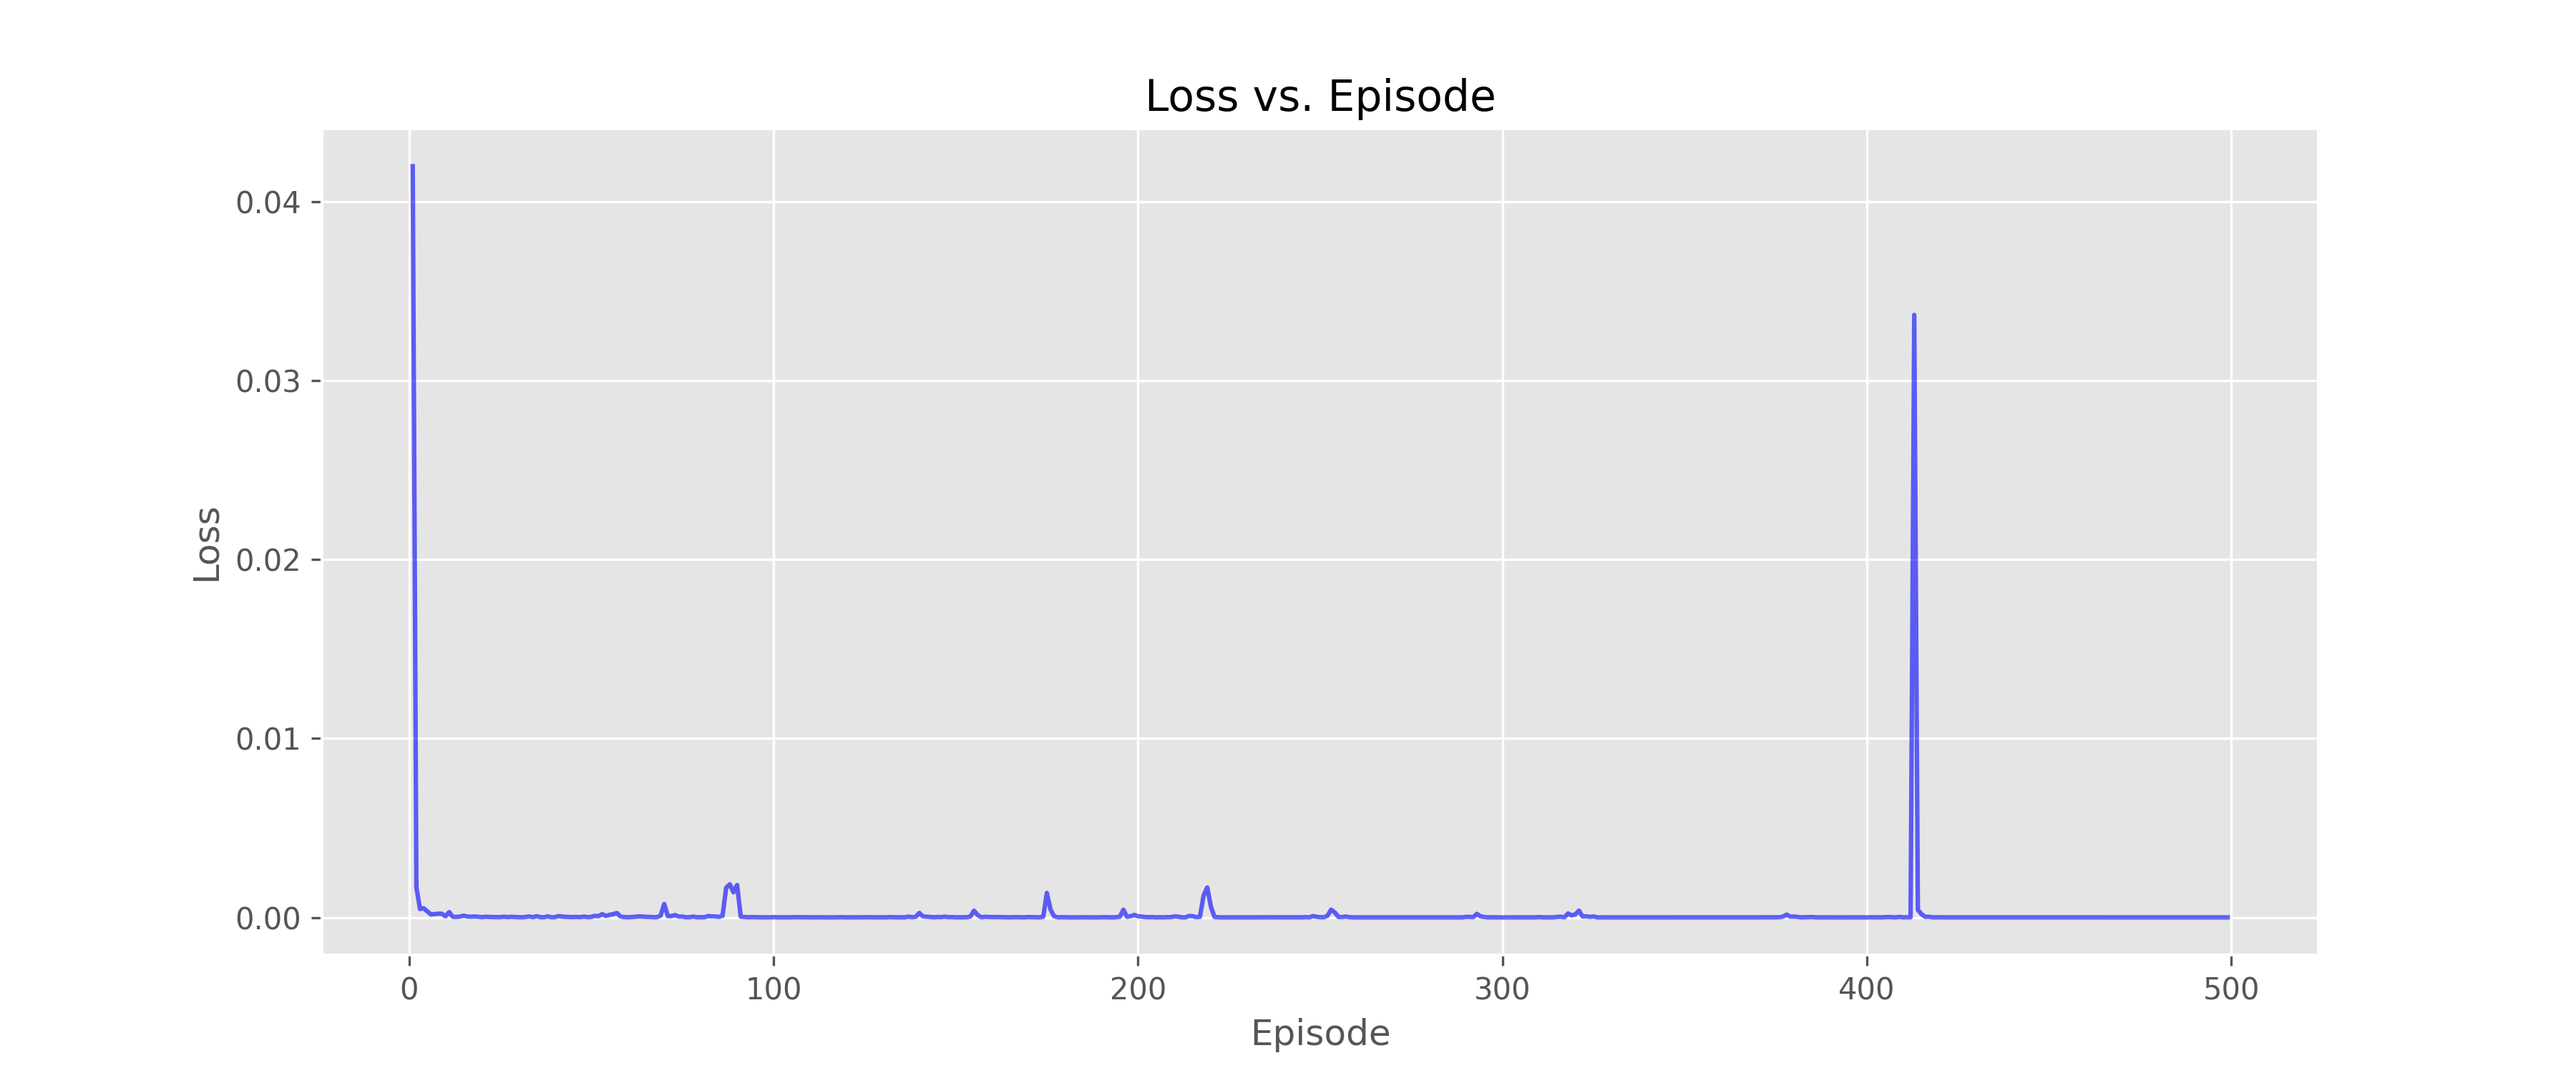
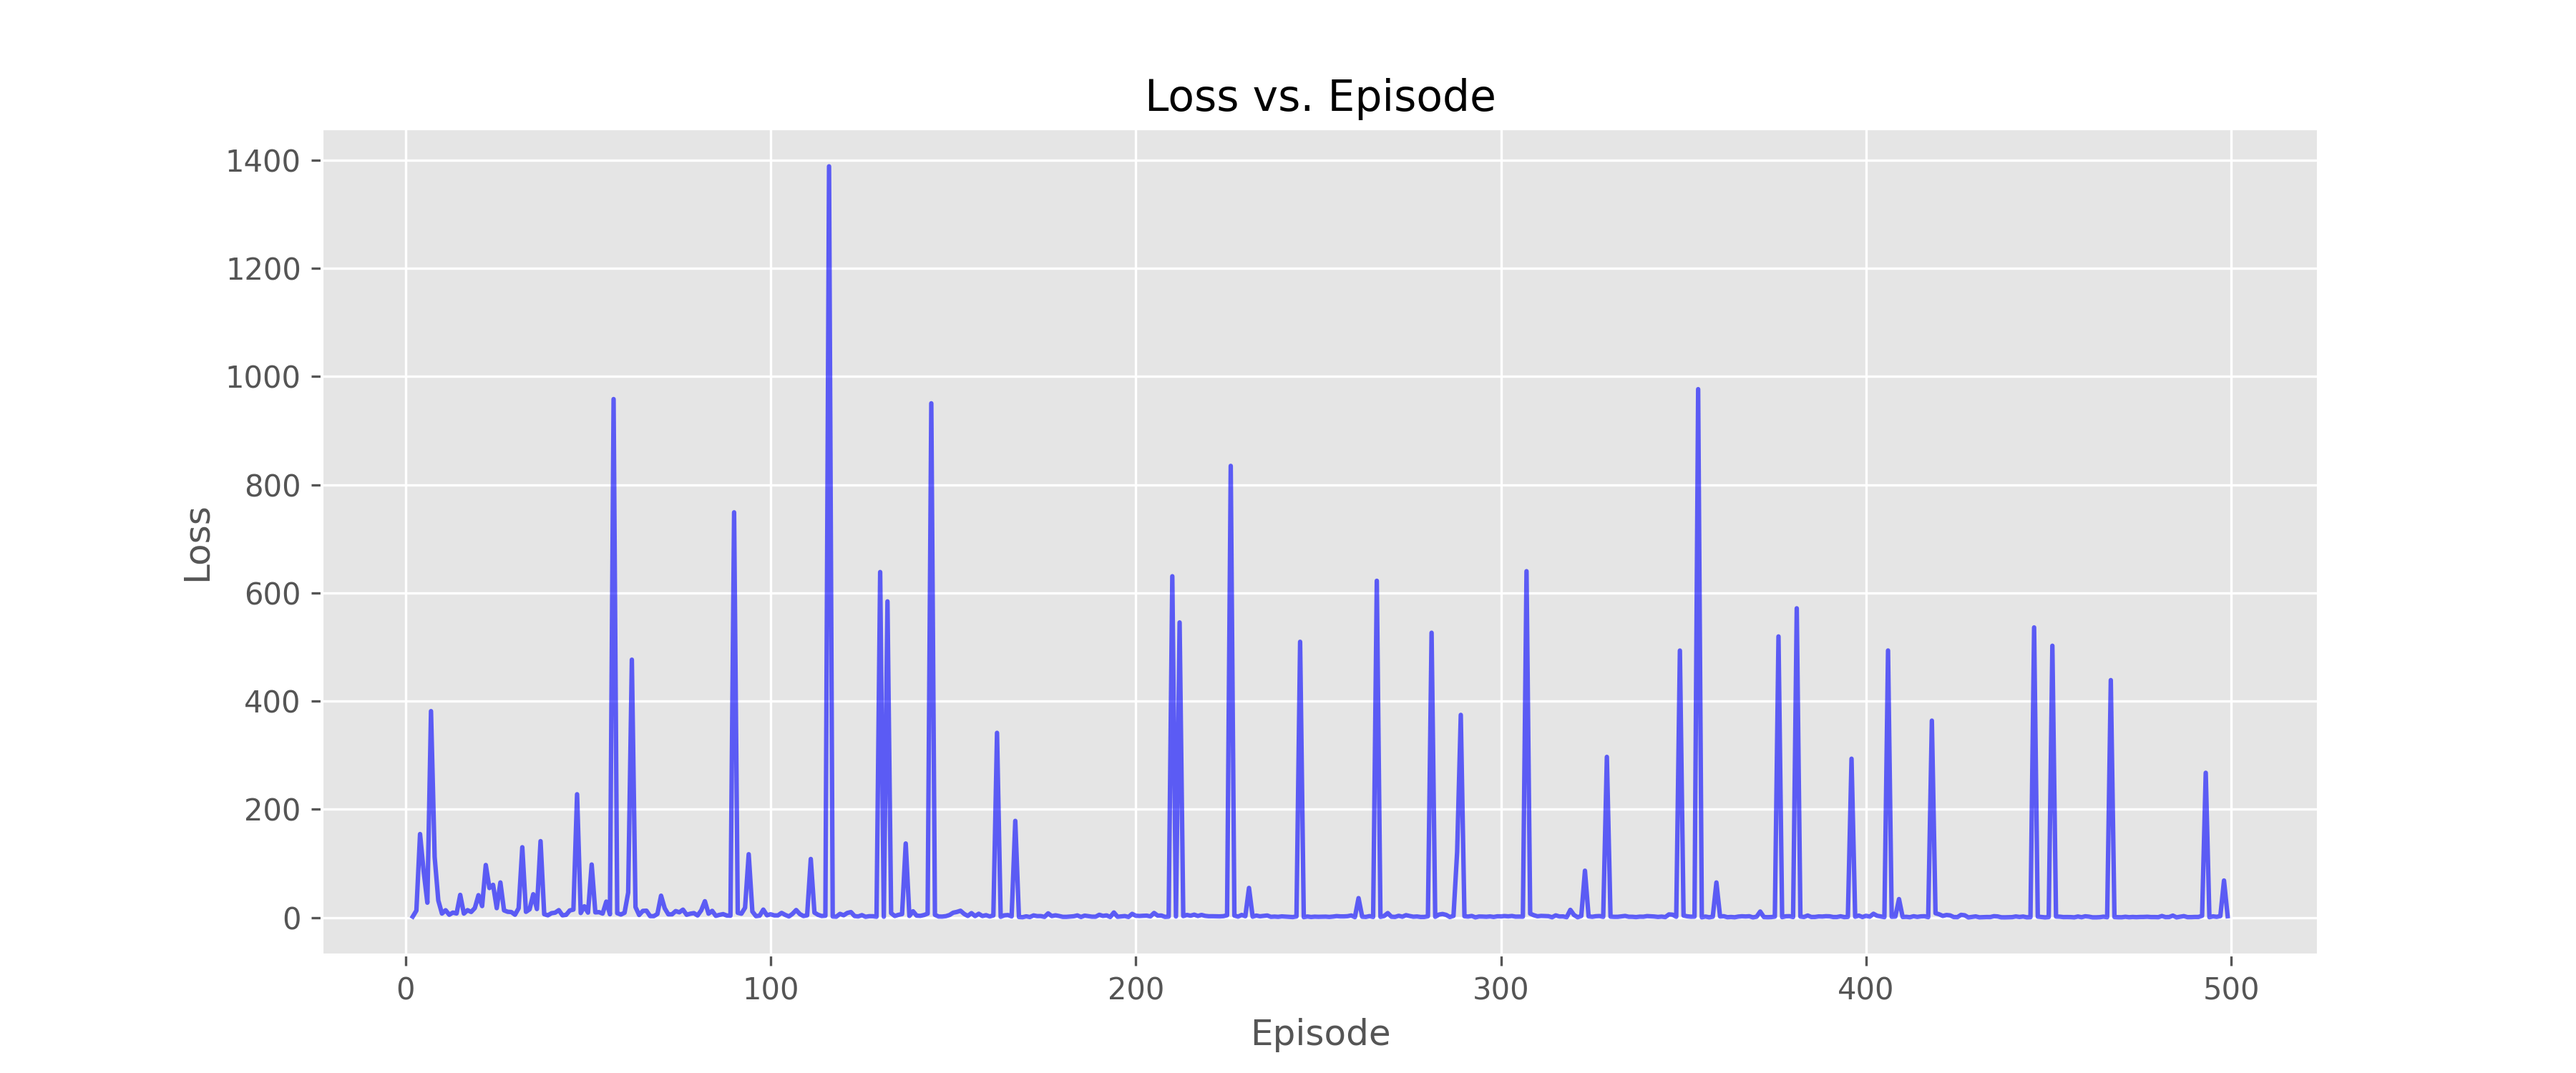
feat: rl19 DQN - Learning vs Targtet NNs

diff --git a/rl19_cart_pole_target_nn.py b/rl19_cart_pole_target_nn.py
@@ -1,5 +1,6 @@
 """
-CartPole using Gymnasium - Experience reply
+CartPole using Gymnasium
+Adding a target NN
 """
 
 import math
@@ -10,8 +11,9 @@ from typing import Any
 
 import gymnasium as gym
 import matplotlib.pyplot as plt
+import numpy as np
 import torch
-from torch import LongTensor, Tensor, nn, optim
+from torch import Tensor, nn, optim
 
 # --- Environment Setup --
 env = gym.make("CartPole-v1")
@@ -19,7 +21,7 @@ NUM_EPISODES = 1000
 REPORT_INTERVAL = 10
 
 # --- Plotting directory --
-OUTPUT_DIR = "./docs/rl18"
+OUTPUT_DIR = "./docs/rl19"
 os.makedirs(OUTPUT_DIR, exist_ok=True)
 plt.style.use("ggplot")
 
@@ -31,6 +33,9 @@ GAMMA = 0.99
 
 REPLAY_MEM_SIZE = 50000
 BATCH_SIZE = 32
+
+UPDATE_TARGET_FREQUENCY = 100
+CLIP_ERROR = False
 
 EPSILON_INITIAL = 0.9
 EPSILON_FINAL = 0.02
@@ -121,7 +126,6 @@ class NeuralNetwork(nn.Module):
         self.linear2 = nn.Linear(HIDDEN_LAYER, number_of_outputs)
 
         self.activation = nn.Tanh()
-        # self.activation = nn.ReLU()
 
     def forward(self, x_in):
         """Forward pass of the network."""
@@ -136,12 +140,13 @@ class QNetAgent:
 
     def __init__(self):
         self.nn = NeuralNetwork().to(DEVICE)
+        self.target_nn = NeuralNetwork().to(DEVICE)
 
         self.loss_func = nn.MSELoss()
-        # self.loss_func = nn.SmoothL1Loss()
 
         self.optimizer = optim.Adam(params=self.nn.parameters(), lr=LEARNING_RATE)
-        # self.optimizer = optim.RMSprop(params=self.nn.parameters(), lr=LEARNING_RATE)
+
+        self.update_target_counter = 0  # pylint: disable=invalid-name
 
     def select_action(self, agnt_state, agnt_epsilon):
         """
@@ -153,7 +158,6 @@ class QNetAgent:
         if random_for_egreedy > agnt_epsilon:
             # Best possible movement
             with torch.no_grad():
-                # no_grad :: Won't perform backpropagation
                 agnt_state = Tensor(agnt_state).to(DEVICE)
                 action_from_nn = self.nn(agnt_state)
                 action = torch.max(action_from_nn, 0)[1]
@@ -176,16 +180,16 @@ class QNetAgent:
         agnt_state, action, next_state, agnt_reward, is_done = memory.sample(BATCH_SIZE)
 
         # Convert to tensors
-        agnt_state = Tensor(agnt_state).to(DEVICE)
-        next_state = Tensor(next_state).to(DEVICE)
-        agnt_reward = Tensor([agnt_reward]).to(DEVICE)
-        action = LongTensor(action).to(DEVICE)
-        is_done = Tensor(is_done).to(DEVICE)
+        agnt_state = torch.Tensor(np.array(agnt_state)).to(DEVICE)
+        next_state = torch.Tensor(np.array(next_state)).to(DEVICE)
+        agnt_reward = torch.Tensor(np.array(agnt_reward)).to(DEVICE)
+        action = torch.LongTensor(np.array(action)).to(DEVICE)
+        is_done = torch.Tensor(np.array(is_done)).to(DEVICE)
 
-        next_state_values = self.nn(next_state).detach()
-        max_next_state_values = torch.max(next_state_values, 1)[0]
-
-        target_q_value = agnt_reward + (1 - is_done) * GAMMA * max_next_state_values
+        # Using target NN for Q-values
+        new_state_values = self.target_nn(next_state).detach()
+        max_new_state_values = torch.max(new_state_values, 1)[0]
+        target_q_value = agnt_reward + (1 - is_done) * GAMMA * max_new_state_values
 
         predicted_q_value = (
             self.nn(agnt_state).gather(1, action.unsqueeze(1)).squeeze(1)
@@ -195,7 +199,17 @@ class QNetAgent:
 
         self.optimizer.zero_grad()
         loss.backward()
+
+        if CLIP_ERROR:
+            for param in self.nn.parameters():
+                param.grad.data.clamp_(-1, 1)
+
         self.optimizer.step()
+
+        if self.update_target_counter % UPDATE_TARGET_FREQUENCY == 0:
+            self.target_nn.load_state_dict(self.nn.state_dict())
+
+        self.update_target_counter += 1
 
         return loss.item()
 
@@ -261,7 +275,8 @@ for i_episode in range(NUM_EPISODES):
             steps_total.append(step)
             rewards_total.append(episode_reward_return)
             epsilon_total.append(epsilon)
-            losses.append(step_loss)
+            if step_loss is not None:
+                losses.append(step_loss)
 
             mean_reward_100 = sum(steps_total[-100:]) / 100
 
@@ -299,7 +314,7 @@ plt.plot(range(len(losses)), losses, alpha=0.6, color="blue")
 plt.title("Loss vs. Episode")
 plt.xlabel("Episode")
 plt.ylabel("Loss")
-loss_plot_path = os.path.join(OUTPUT_DIR, "rl18_loss_vs_episode.png")
+loss_plot_path = os.path.join(OUTPUT_DIR, "rl19_loss_vs_episode.png")
 plt.savefig(loss_plot_path, dpi=300)
 plt.close()
 
@@ -309,7 +324,7 @@ plt.plot(range(len(steps_total)), steps_total, alpha=0.6, color="red")
 plt.title("Steps per Episode")
 plt.xlabel("Episode")
 plt.ylabel("Steps")
-steps_plot_path = os.path.join(OUTPUT_DIR, "rl18_steps_per_episode.png")
+steps_plot_path = os.path.join(OUTPUT_DIR, "rl19_steps_per_episode.png")
 plt.savefig(steps_plot_path, dpi=300)
 plt.close()
 
@@ -319,7 +334,7 @@ plt.plot(range(len(rewards_total)), rewards_total, alpha=0.6, color="green")
 plt.title("Rewards per Episode")
 plt.xlabel("Episode")
 plt.ylabel("Reward")
-rewards_plot_path = os.path.join(OUTPUT_DIR, "rl18_rewards_per_episode.png")
+rewards_plot_path = os.path.join(OUTPUT_DIR, "rl19_rewards_per_episode.png")
 plt.savefig(rewards_plot_path, dpi=300)
 plt.close()
 
@@ -329,6 +344,6 @@ plt.plot(range(len(epsilon_total)), epsilon_total, alpha=0.6, color="purple")
 plt.title("Epsilon per Episode")
 plt.xlabel("Episode")
 plt.ylabel("Epsilon")
-epsilon_plot_path = os.path.join(OUTPUT_DIR, "rl18_epsilon_per_episode.png")
+epsilon_plot_path = os.path.join(OUTPUT_DIR, "rl19_epsilon_per_episode.png")
 plt.savefig(epsilon_plot_path, dpi=300)
 plt.close()

diff --git a/README.md b/README.md
@@ -257,3 +257,16 @@ The same [Cart Pole](https://gymnasium.farama.org/environments/classic_control/c
 
 ### rl18_cart_pole_experience_replay
 To alleviate the problems of correlated data and non-stationary distributions, we use an ([experience replay mechanism](https://apps.dtic.mil/sti/tr/pdf/ADA261434.pdf)) which randomly samples previous transitions, and thereby smooths the training distribution over many past behaviors.  Instead of training on experiences in the order they occur, the agent stores them in a data structure called a replay buffer.
+
+
+
+### rl19_cart_pole_target_NN.py
+The Deep Q-Network (DQN) uses a separate, identical NN  called the target network to calculate the target Q-values. This target network's weights are periodically synchronized with the main Learning NN weights but are held fixed during the training of the main network.
+
+The loss function ($L_i$) for the DQN traning is:
+
+$$
+L_i(\theta_i) = \mathbb{E}_{(s,a,r,s') \sim U(D)} \left[ \left( r + \gamma \max_{a'} Q(s',a';\theta_i^-) - Q(s,a;\theta_i) \right)^2 \right]
+$$
+
+Where $r + \gamma \max_{a'} Q(s',a';\theta_i^-)$ is the target Q value and $Q(s,a;\theta_i)$ is the current Q-value estimate for the action $a$ taken in state $s$. The $\theta$ are NN weights. Remember that the agent is the Learning NN.
